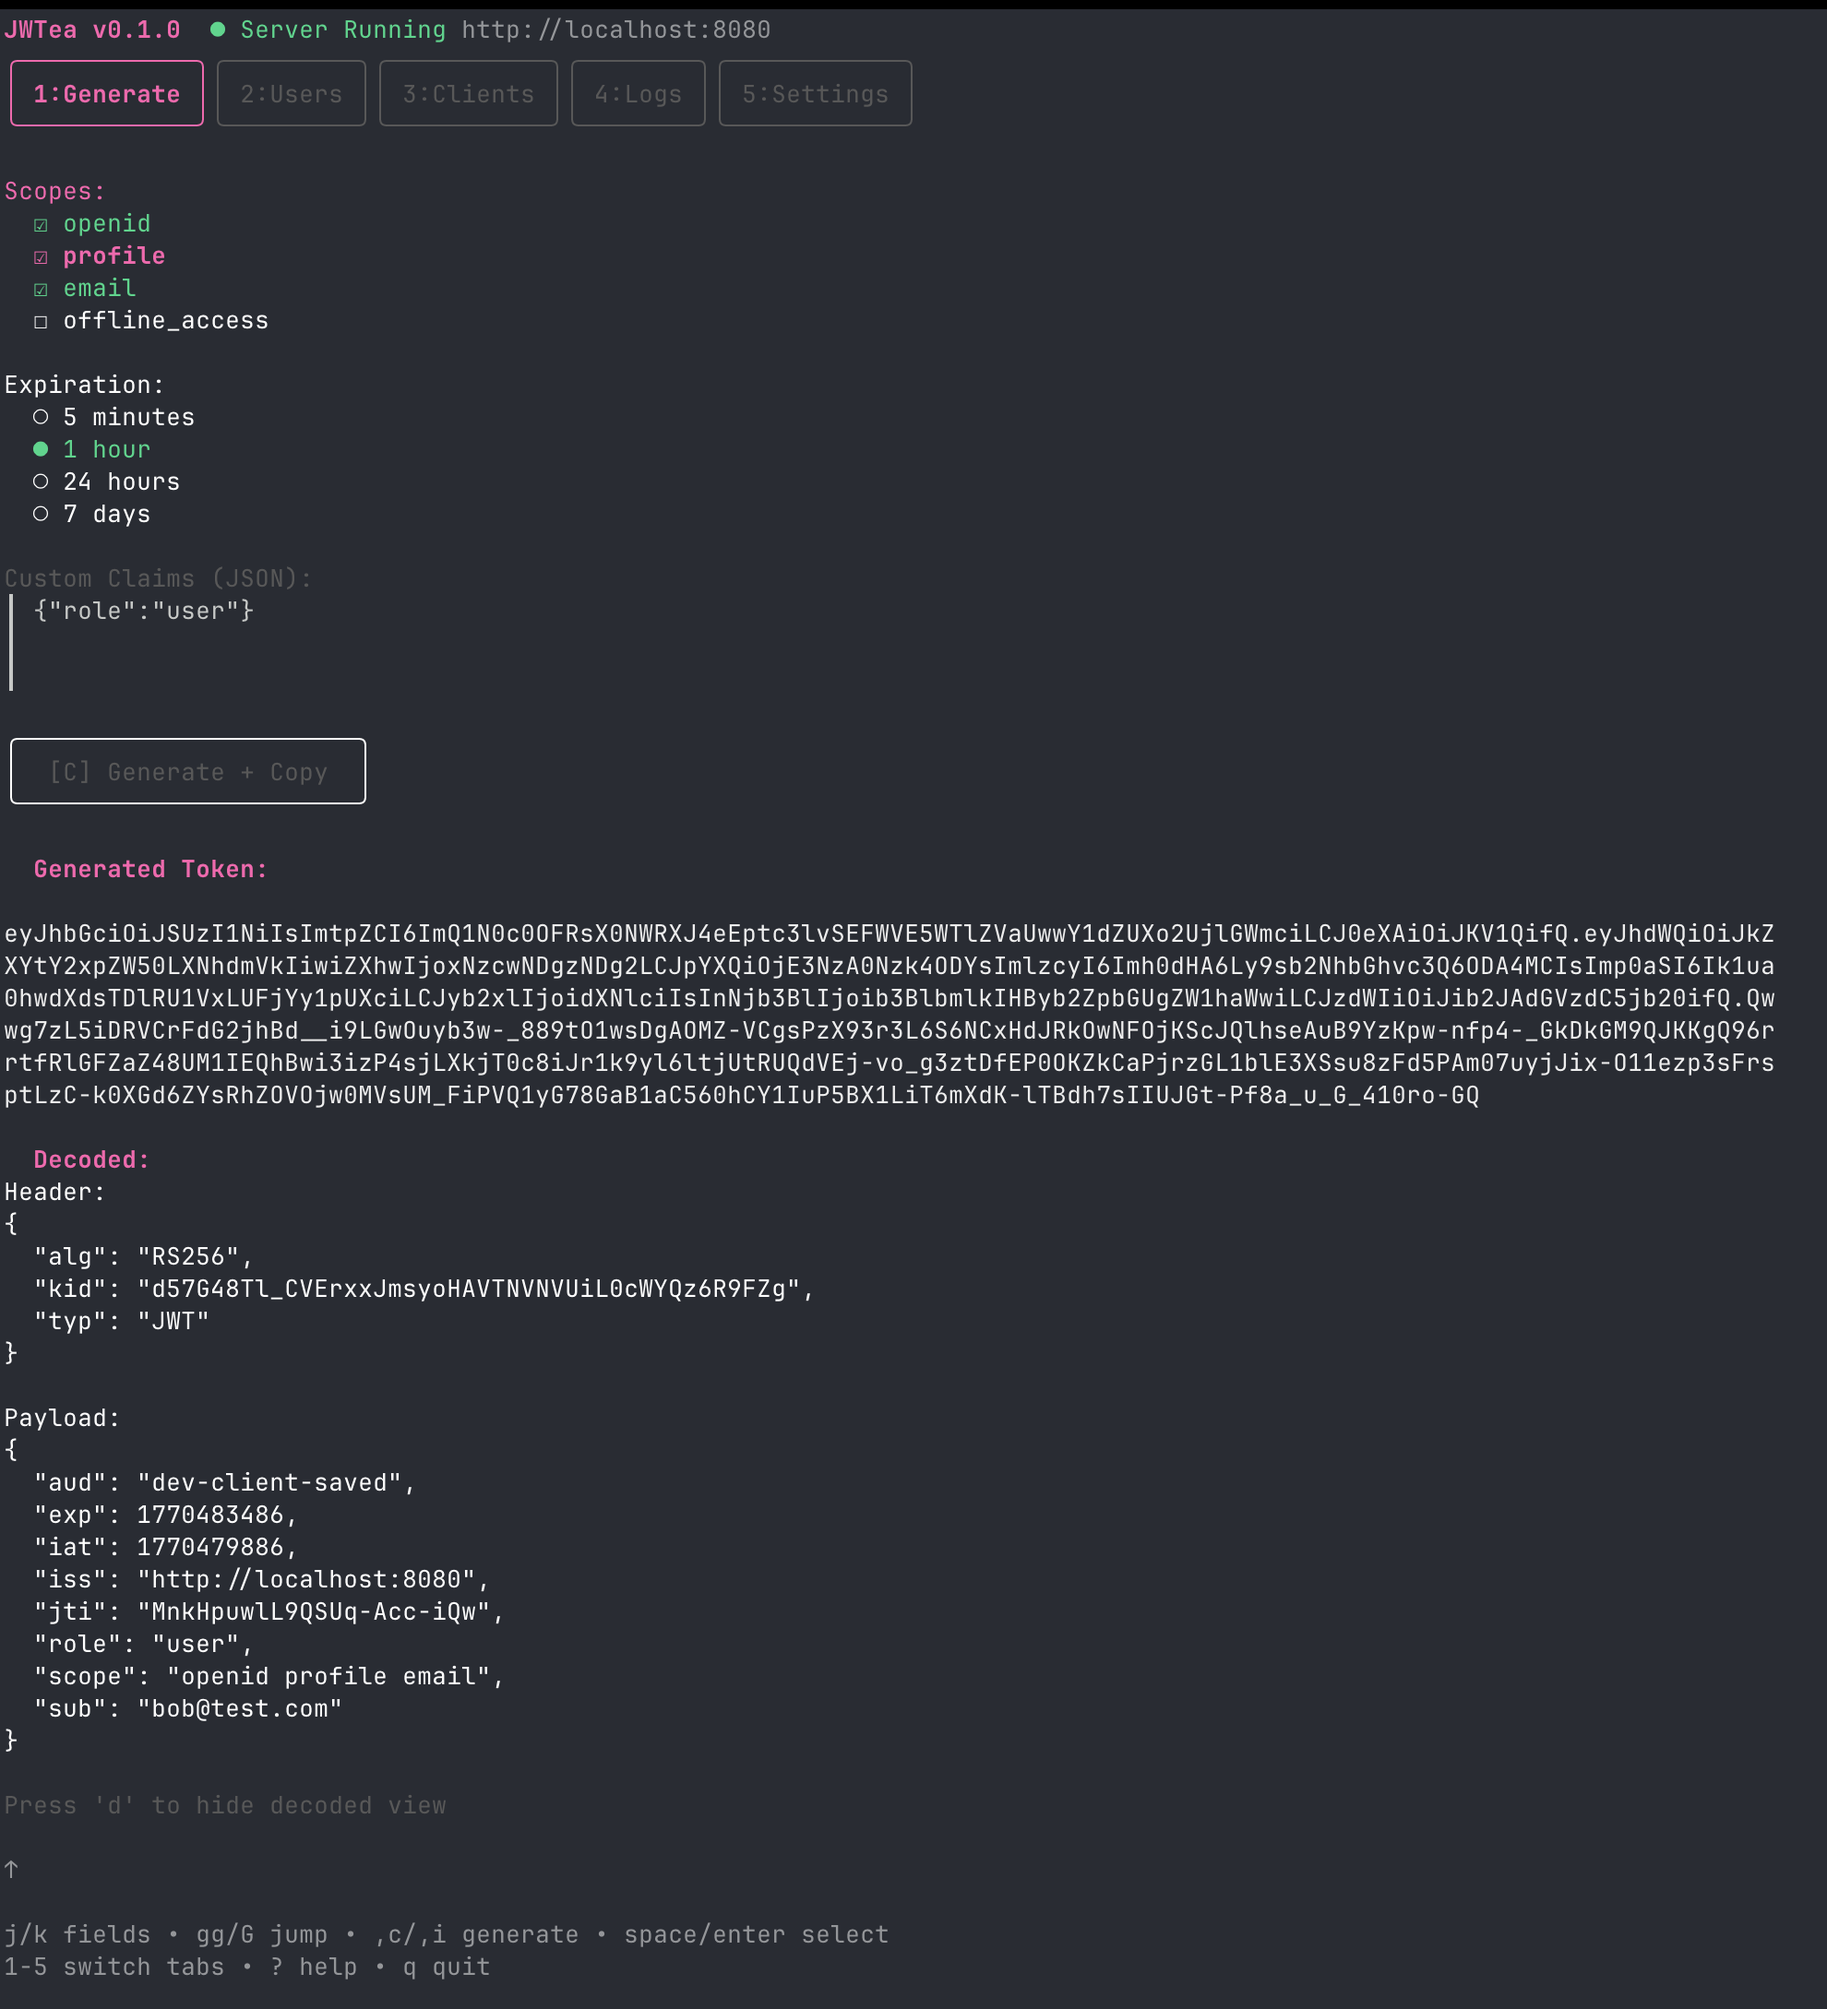
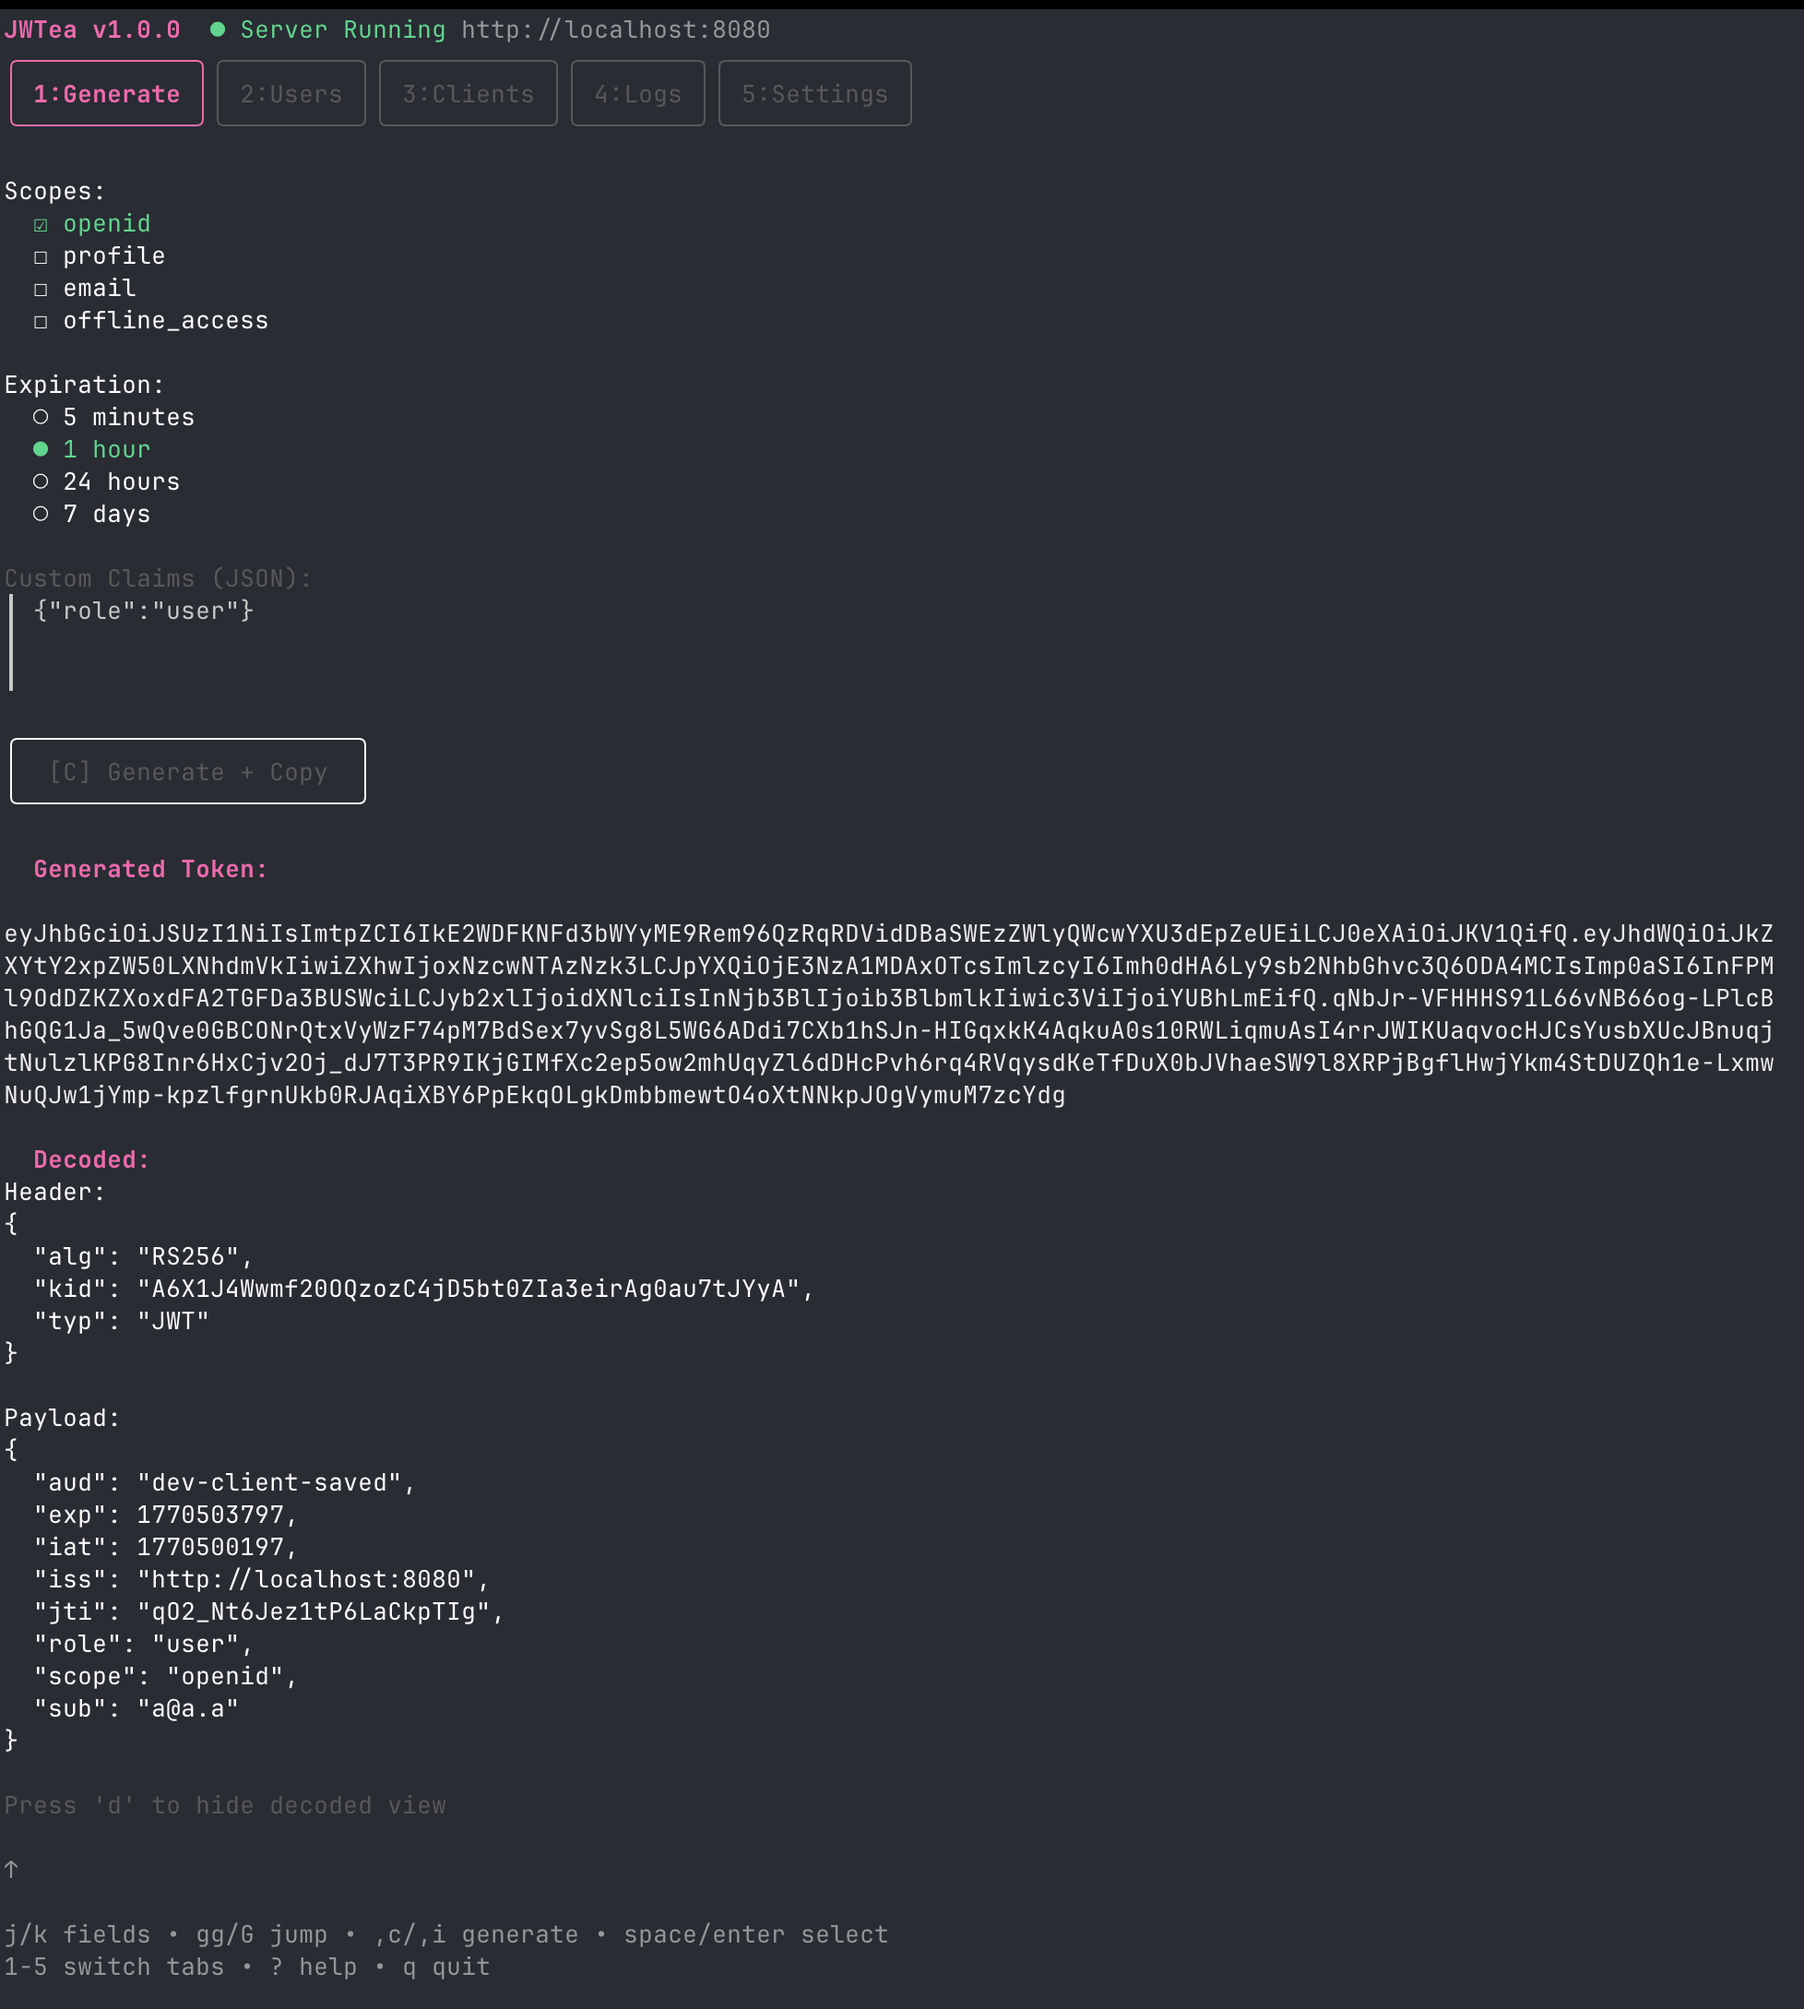
Add GoReleaser and Homebrew release automation

diff --git a/cmd/root.go b/cmd/root.go
@@ -8,6 +8,8 @@ import (
 )
 
 var (
+	Version = "1.0.0"
+
 	flagHost   string
 	flagPort   int
 	flagIssuer string
@@ -17,6 +19,14 @@ var rootCmd = &cobra.Command{
 	Use:   "jwtea",
 	Short: "jwtea – OAuth2/OIDC server with interactive TUI",
 	Long:  "jwtea is an OAuth2/OIDC authorization server with an integrated interactive dashboard for testing and development.\n\nRun 'jwtea serve' to start the server with the interactive dashboard.",
+}
+
+var versionCmd = &cobra.Command{
+	Use:   "version",
+	Short: "Print the version number",
+	Run: func(cmd *cobra.Command, args []string) {
+		fmt.Printf("jwtea %s\n", Version)
+	},
 }
 
 func Execute() error {
@@ -29,6 +39,7 @@ func init() {
 	rootCmd.PersistentFlags().StringVar(&flagIssuer, "issuer", "", "OIDC issuer URL (optional). If empty, derived from host/port")
 
 	rootCmd.AddCommand(serveCmd)
+	rootCmd.AddCommand(versionCmd)
 	rootCmd.SilenceUsage = true
 	rootCmd.SilenceErrors = true
 

diff --git a/cmd/dashboard.go b/cmd/dashboard.go
@@ -15,7 +15,6 @@ import (
 
 const (
 	defaultTickInterval = 1000 * time.Millisecond
-	appVersion          = "v0.1.0"
 	appName             = "JWTea"
 
 	tabGenerate = 0
@@ -257,7 +256,7 @@ func (m dashModel) renderPulse() string {
 }
 
 func (m dashModel) renderAppInfo() string {
-	return m.theme.Header.Render(fmt.Sprintf("%s %s  ", appName, appVersion))
+	return m.theme.Header.Render(fmt.Sprintf("%s v%s  ", appName, Version))
 }
 
 func (m dashModel) renderServerStatus() string {

diff --git a/README.md b/README.md
@@ -18,10 +18,17 @@ A lightweight OAuth2/OIDC Authorization Server with an interactive Terminal UI (
 
 ## Installation
 
+### Homebrew (macOS/Linux)
+
+```bash
+brew tap augustinaviciusR/tap
+brew install jwtea
+```
+
 ### From Source
 
 ```bash
-git clone https://github.com/yourusername/jwtea.git
+git clone https://github.com/augustinaviciusR/jwtea.git
 cd jwtea
 make build
 ```
@@ -29,7 +36,7 @@ make build
 ### Go Install
 
 ```bash
-go install github.com/yourusername/jwtea@latest
+go install github.com/augustinaviciusR/jwtea@latest
 ```
 
 ## Quick Start
